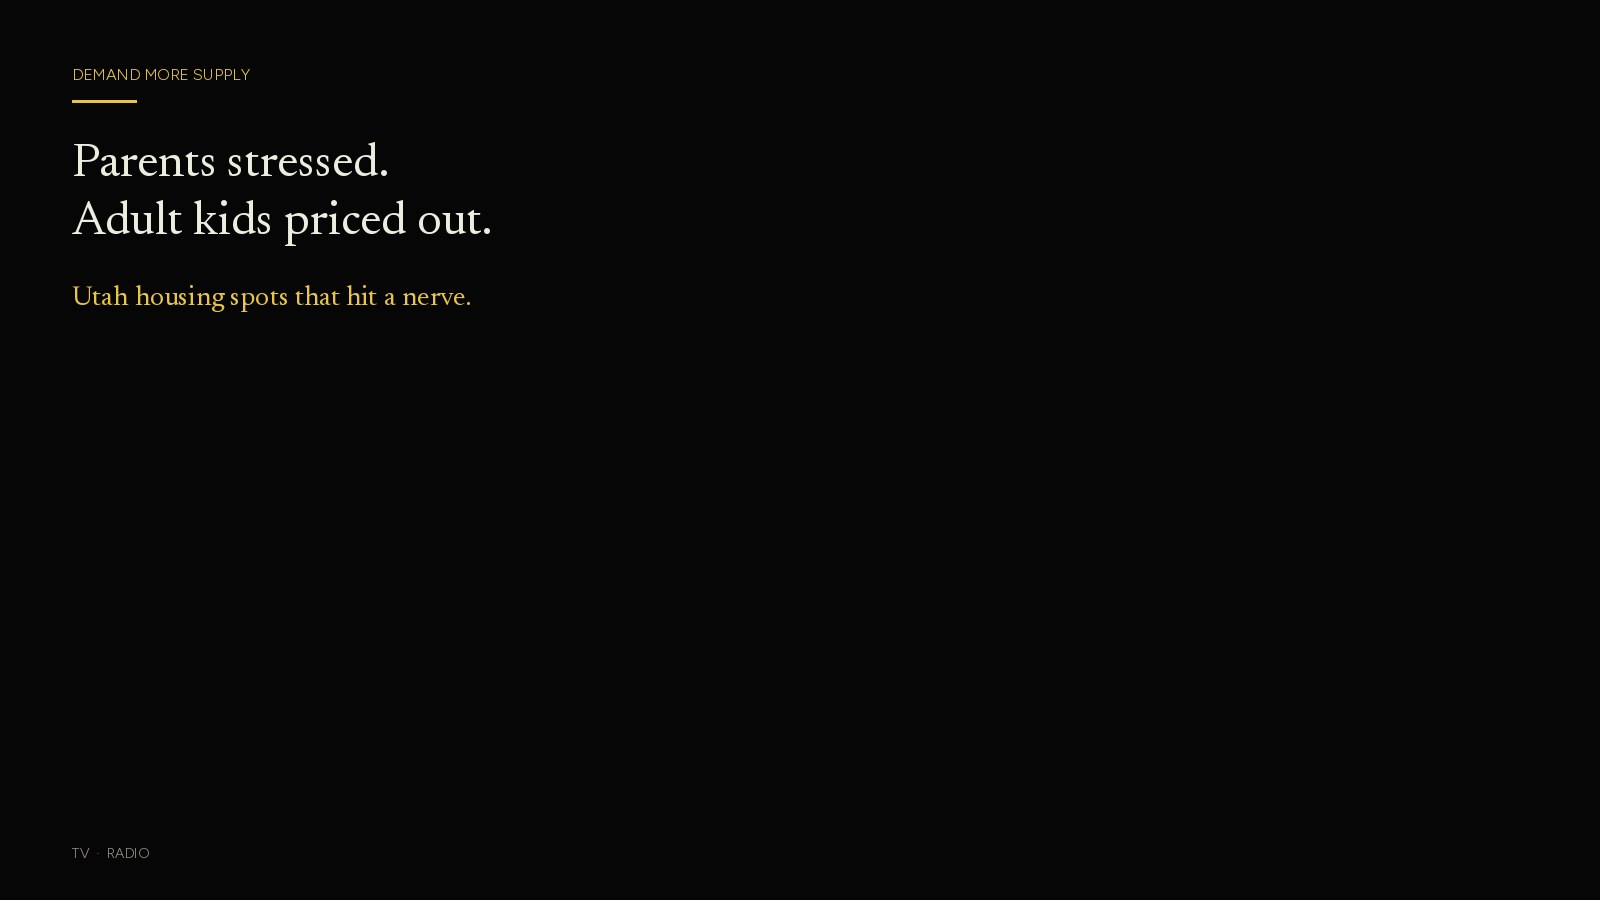
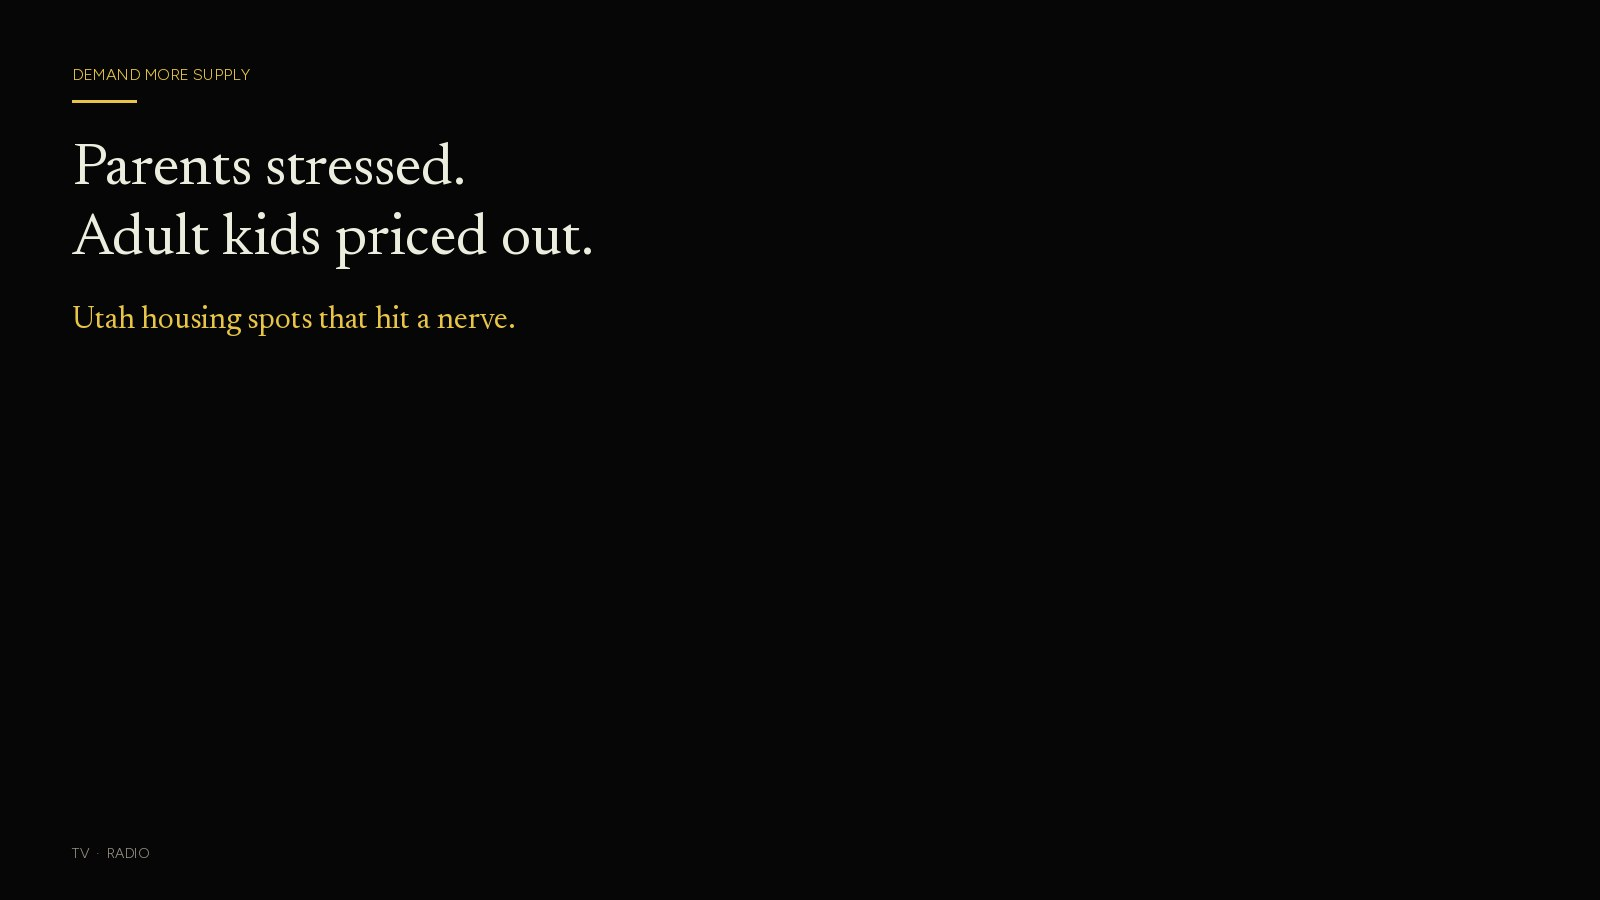
Lock identical setup type size on all four thumbs (#7)
* Equal setup point size: Revenue Bloom

* Equal setup point size: Demand More Supply

* Equal setup point size: The ads

* Equal setup point size: Also

* Sync Also homepage blurb with thumb copy

* Sync Also page pull with thumb copy

Changed region(s): [[0.0312, 0.1556, 0.375, 0.3733]]

diff --git a/index.html b/index.html
@@ -74,7 +74,7 @@
     <div class="meta">
       <div>
         <strong>Also</strong>
-        <p class="blurb">Not every ad needs a parade. Some just need a link.</p>
+        <p class="blurb">Not every ad needs its own parade. Some just need a link.</p>
       </div>
       <span class="go">See</span>
     </div>

diff --git a/work/also.html b/work/also.html
@@ -19,7 +19,7 @@
 </header>
 <article class="page">
   <p class="kicker">Also</p>
-  <p class="pull">Not every ad needs a parade.</p>
+  <p class="pull">Not every ad needs its own parade.</p>
   <p class="lede">Some just need a link.</p>
 
   <div class="book-grid">
